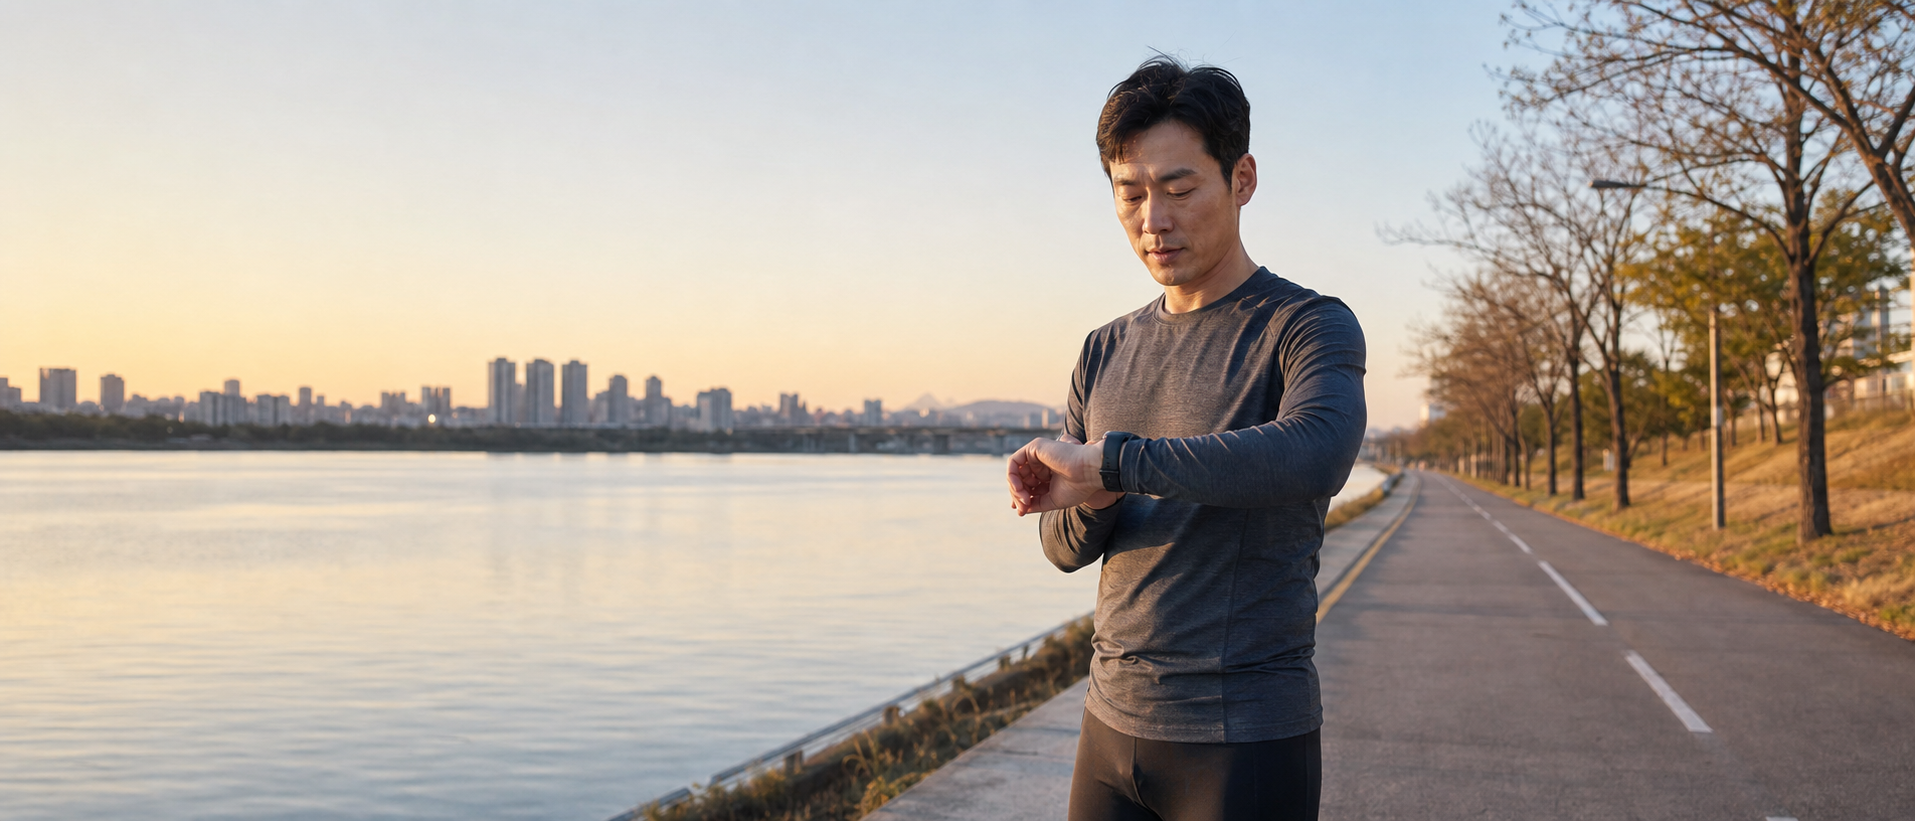
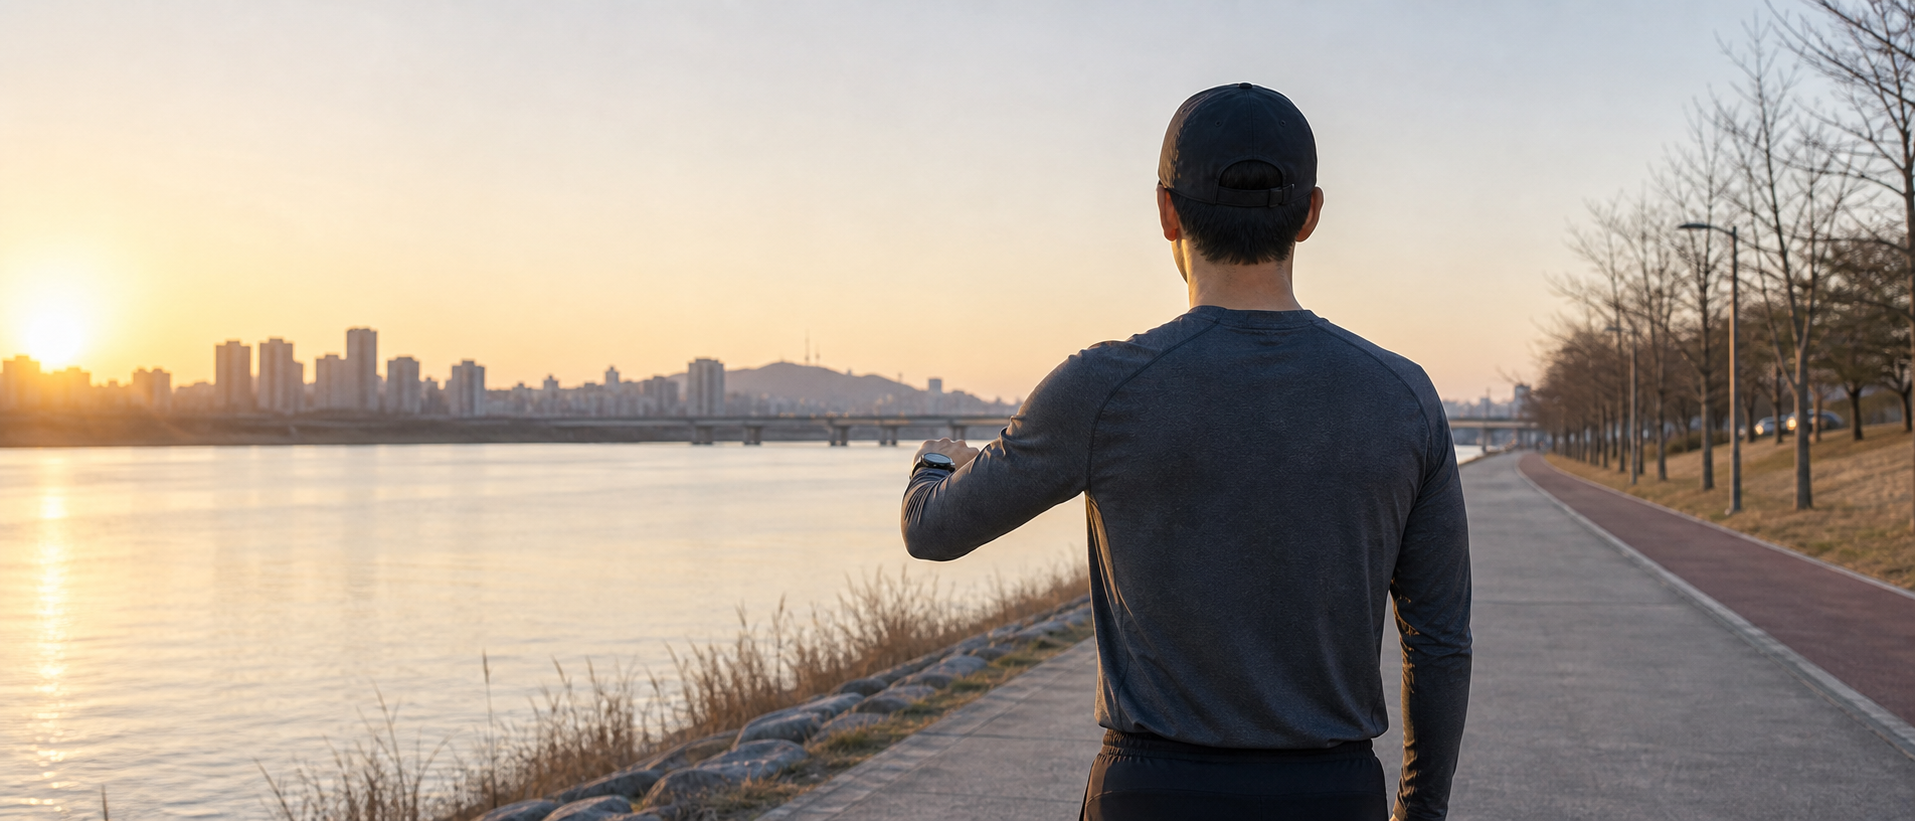
chore(journal): sync face-hidden images to cafe24

diff --git a/cafe24/journal/journal-02-a.html b/cafe24/journal/journal-02-a.html
@@ -16,7 +16,7 @@
     <div class="jp-layout">
       <article class="jp-article">
         <figure class="jp-figure">
-        <img src="/SkinImg/img/journal/journal-02-a/img-1.png" alt="한강변에서 새벽 장거리 훈련을 마친 러너가 시계를 들여다보는 장면" loading="lazy">
+        <img src="/SkinImg/img/journal/journal-02-a/img-1.png" alt="한강변에서 새벽 장거리 훈련을 마친 러너가 얼굴이 보이지 않는 뒷모습으로 시계를 확인하는 장면" loading="lazy">
         </figure>
         <figure class="jp-quote">
         <p><strong>핵심 요약</strong> 대회 직전 2주의 km 감축은 체력이 빠지는 시간이 아니라, 누적된 운동 부담을 빼고 글리코겐을 채워 평균 2~3%, 최대 6%까지 수행능력을 되찾는 회수 구간이다.  - Mujika &amp; Padilla 2003 systematic review 기준 평균 향상 2~3%, 최대 6% - 풀마라톤 3시간 30분 기록 기준 6%는 약 12분 - 1주차 평소의 70~80%, 2주차 40~60%, 마지막 3일 20~30%가 일반 권장 비율 - 거리는 줄이되 강도는 유지하는 것이 핵심 — 인터벌·페이스 주행을 완전히 빼지 않는다</p>
@@ -80,7 +80,7 @@
         <p>가장 흔한 실수는 1주차다. 컨디션이 너무 좋아서 마지막 30km LSD를 한 번 더 도는 것. 12일 전의 30km LSD는 글리코겐 회복 시간을 그대로 잡아먹는다. 글리코겐 완전 회복은 통상 48~72시간이지만, 마이크로 손상의 회복은 그보다 길다. 12일이면 빠듯하다.</p>
         <p>2주차의 핵심은 페이스 감각 유지다. 회복 조깅만 5km씩 며칠을 돌면 신경근 시스템이 대회 페이스를 잊는다. 짧은 페이스 주행 — 예를 들어 5km를 대회 페이스로 한 번 — 이 들어가야 한다.</p>
         <figure class="jp-figure">
-        <img src="/SkinImg/img/journal/journal-02-a/img-4.png" alt="대회 직전 평소보다 짧은 거리를 느린 페이스로 도는 러너의 새벽 회복 조깅 장면" loading="lazy">
+        <img src="/SkinImg/img/journal/journal-02-a/img-4.png" alt="대회 직전 얼굴이 보이지 않는 측후면 구도로 짧은 거리를 느린 페이스로 도는 러너의 새벽 회복 조깅 장면" loading="lazy">
         </figure>
         <p>마지막 3일은 거의 휴식이다. 가벼운 조깅 20~30분, 또는 완전 휴식. 일부 러너는 마지막 2일을 완전히 쉬기도 한다. 둘 다 일반적 권장 범위 안에 있다. 핵심은 이 시점의 추가 훈련이 결과를 만들지 않는다는 점이다.</p>
         <figure class="jp-figure">
@@ -120,7 +120,7 @@
         <p><strong>Q. 컨디션이 너무 좋아서 더 뛰고 싶을 때는 어떻게 하나요?</strong> &#39;컨디션이 너무 좋다&#39;는 신호 자체가 테이퍼링이 작동하고 있다는 증거다. 누적된 운동 부담이 빠져 평소보다 가볍게 느껴지는 구간이고, 이때 추가 훈련을 넣으면 그 이점을 그대로 상쇄한다. 일반적인 권장은 추가 km 대신 가벼운 조깅과 충분한 잠으로 그 컨디션을 대회 당일까지 가져가는 것이다.</p>
         <p><strong>Q. 평소 주 50km를 뛰는 러너와 주 100km를 뛰는 러너의 테이퍼링이 같나요?</strong> 비율은 같고 절대 km는 다르다. 주 50km 러너는 1주차에 35~40km, 주 100km 러너는 70~80km 정도를 도는 식이다. 평소 훈련량이 많을수록 줄이는 절대량도 크지만, 비율로 옮기면 일반 권장 범위 안에 모두 들어간다.</p>
         <figure class="jp-figure">
-        <img src="/SkinImg/img/journal/journal-02-a/img-6.png" alt="마라톤 대회 출발선 앞에 차분하게 서서 시계를 마지막으로 확인하는 러너의 새벽 풍경" loading="lazy">
+        <img src="/SkinImg/img/journal/journal-02-a/img-6.png" alt="마라톤 대회 출발선 앞에서 얼굴이 보이지 않는 뒷모습으로 시계를 마지막 확인하는 러너의 새벽 풍경" loading="lazy">
         </figure>
         <h2>OUTRO</h2>
         <p>4월 그 일요일의 러너로 돌아간다. 12일 전의 30km LSD는 시즌 베스트가 됐고, 대회 당일은 25km에서 끝났다.</p>
